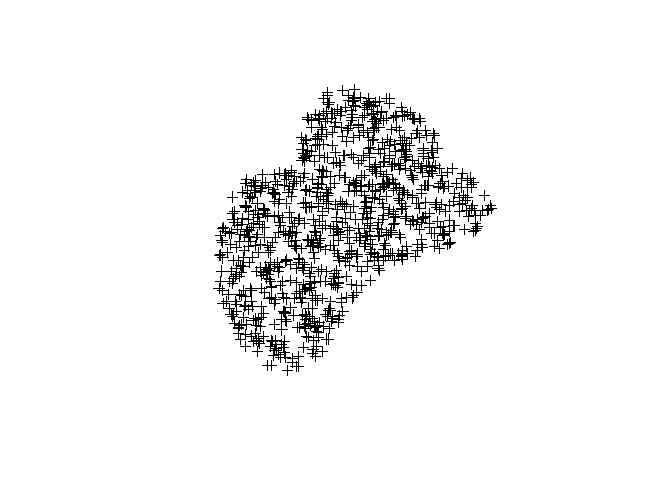
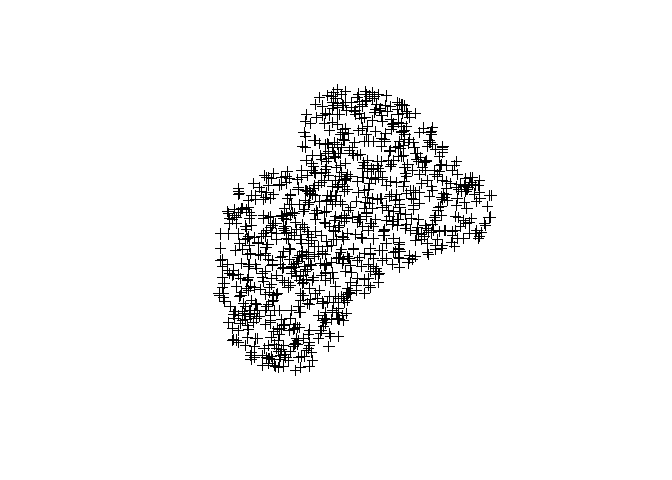
updating images for README

Changed region(s): [[0.3125, 0.1562, 0.75, 0.7812]]

diff --git a/Lab2/README.md b/Lab2/README.md
@@ -968,7 +968,7 @@ crs(all) <-  "+proj=utm +zone=11 +datum=NAD83 +units=m +no_defs +ellps=GRS80 +to
 # Fit 99% mpc
 cp.all <- mcp(all, percent=99)
 
-plot(wolfyht, col="black")
+plot(all, col="black")
 plot(cp.all[cp.all@data$id=="Bow valley",], col="blue",add=TRUE)
 plot(cp.all[cp.all@data$id=="Red Deer",], col="green",add=TRUE)
 plot(wolfyht, col="black", add=TRUE)
@@ -1164,11 +1164,7 @@ in summary statistics below.
 ``` r
 #with terra
 all_rasters<-c(deer_w, moose_w, elk_w, sheep_w, goat_w, wolf_w,elevation2, disthumanaccess2, disthighhumanaccess)
-```
 
-    ## Warning: [rast] SRS do not match
-
-``` r
 #with stars
 #all_rasters_stars<-c(deer_w_stars, moose_w_stars, elk_w_stars, sheep_w_stars, goat_w_stars, wolf_w_stars,elevation2_stars, disthumanaccess2_stars, disthighhumanacess_stars)
 
